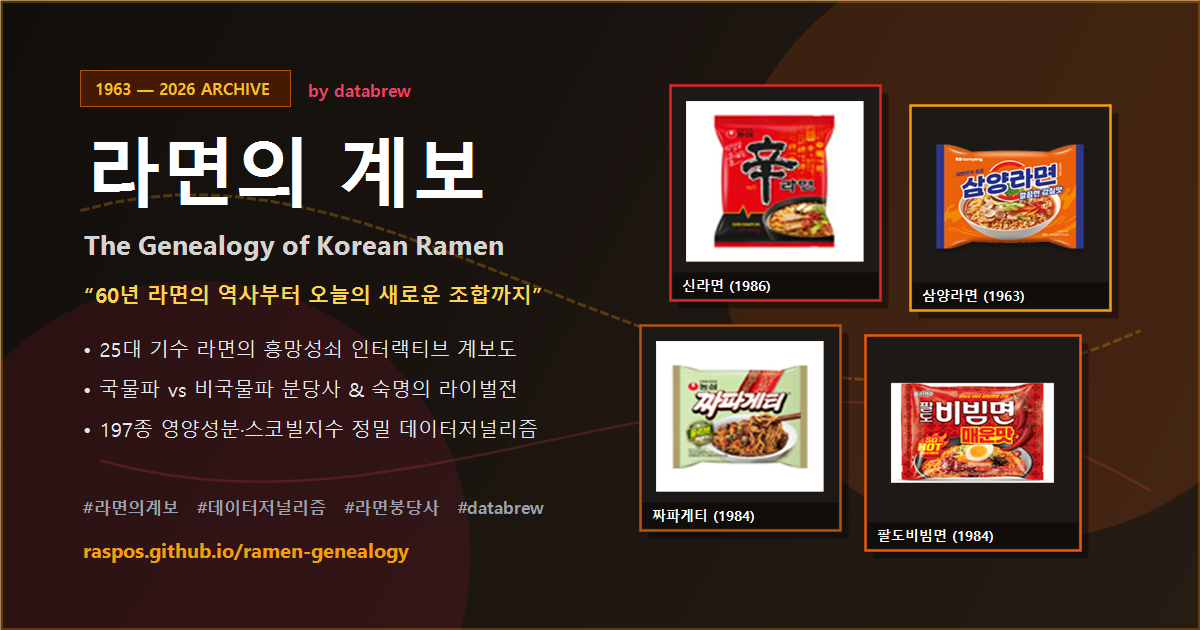
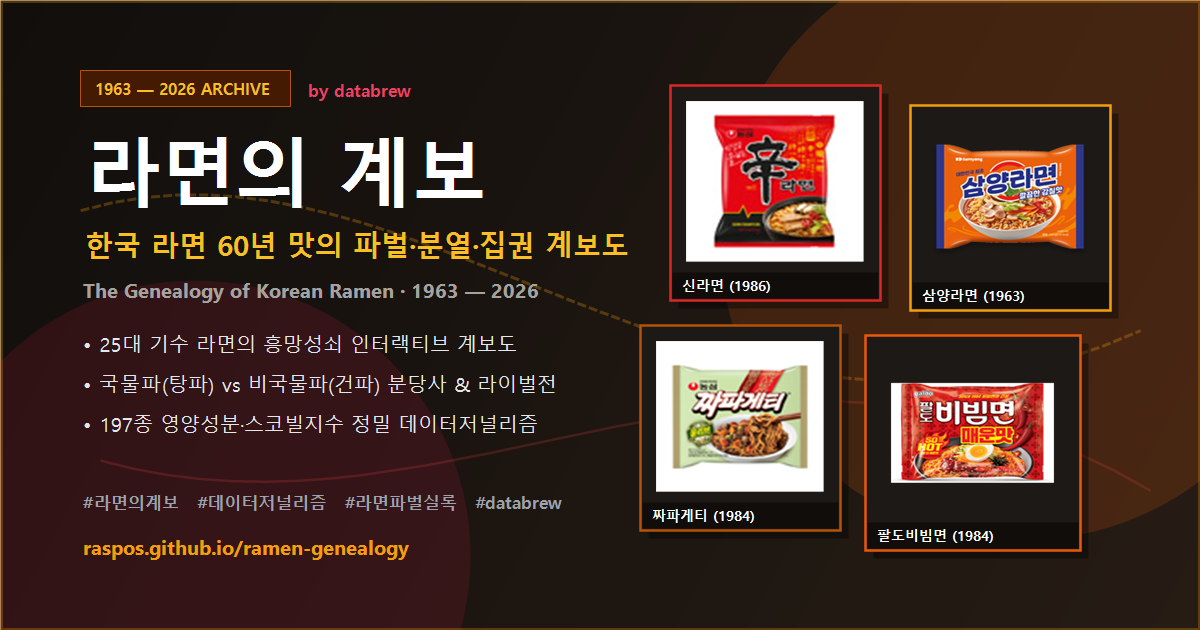
feat: 링크 썸네일 및 타이틀 문구를 '한국 라면 60년 맛의 파벌·분열·집권 계보도'로 전면 교체

diff --git a/index.html b/index.html
@@ -3,8 +3,8 @@
   <head>
     <meta charset="UTF-8" />
     <meta name="viewport" content="width=device-width, initial-scale=1.0" />
-    <title>라면의 계보 | 한국 라면 60년 데이터저널리즘 & 인터랙티브 아카이브</title>
-    <meta name="description" content="“60년 라면의 역사부터 오늘의 새로운 조합까지” 1963~2026 한국 라면 25대 기수 인터랙티브 계보도, 국물파 vs 비국물파 분당사, 숙명의 라이벌전, 197종 정밀 데이터베이스" />
+    <title>라면의 계보 | 한국 라면 60년 맛의 파벌·분열·집권 계보도</title>
+    <meta name="description" content="한국 라면 60년 맛의 파벌·분열·집권 계보도. 1963~2026 한국 라면 25대 기수 인터랙티브 계보도, 국물파 vs 비국물파 분당사, 숙명의 라이벌전 & 197종 정밀 데이터저널리즘" />
     <meta name="keywords" content="라면의 계보, 라면, 신라면, 삼양라면, 진라면, 불닭볶음면, 짜파게티, 팔도비빔면, 라면 역사, 라면 계보도, 데이터저널리즘, databrew" />
     <meta name="author" content="databrew" />
 
@@ -12,21 +12,21 @@
     <meta property="og:type" content="website" />
     <meta property="og:url" content="https://raspos.github.io/ramen-genealogy/" />
     <meta property="og:site_name" content="라면의 계보 (The Genealogy of Korean Ramen)" />
-    <meta property="og:title" content="라면의 계보 — 한국 라면 60년 인터랙티브 아카이브" />
-    <meta property="og:description" content="“60년 라면의 역사부터 오늘의 새로운 조합까지” 25대 기수 계보도, 국물파 vs 비국물파 분당사, 숙명의 라이벌전 & 197종 데이터저널리즘" />
+    <meta property="og:title" content="라면의 계보 — 한국 라면 60년 맛의 파벌·분열·집권 계보도" />
+    <meta property="og:description" content="한국 라면 60년 맛의 파벌·분열·집권 계보도. 25대 기수 계보도, 국물파 vs 비국물파 분당사, 숙명의 라이벌전 & 197종 데이터저널리즘" />
     <meta property="og:image" content="https://raspos.github.io/ramen-genealogy/og-image.png" />
     <meta property="og:image:secure_url" content="https://raspos.github.io/ramen-genealogy/og-image.png" />
     <meta property="og:image:type" content="image/png" />
     <meta property="og:image:width" content="1200" />
     <meta property="og:image:height" content="630" />
-    <meta property="og:image:alt" content="라면의 계보 인터랙티브 데이터저널리즘 썸네일" />
+    <meta property="og:image:alt" content="한국 라면 60년 맛의 파벌·분열·집권 계보도" />
     <meta property="og:locale" content="ko_KR" />
 
     <!-- Twitter / X Card -->
     <meta name="twitter:card" content="summary_large_image" />
     <meta name="twitter:url" content="https://raspos.github.io/ramen-genealogy/" />
-    <meta name="twitter:title" content="라면의 계보 — 한국 라면 60년 인터랙티브 아카이브" />
-    <meta name="twitter:description" content="“60년 라면의 역사부터 오늘의 새로운 조합까지” 25대 기수 계보도, 국물파 vs 비국물파 분당사, 숙명의 라이벌전 & 197종 데이터저널리즘" />
+    <meta name="twitter:title" content="라면의 계보 — 한국 라면 60년 맛의 파벌·분열·집권 계보도" />
+    <meta name="twitter:description" content="한국 라면 60년 맛의 파벌·분열·집권 계보도. 25대 기수 계보도, 국물파 vs 비국물파 분당사, 숙명의 라이벌전 & 197종 데이터저널리즘" />
     <meta name="twitter:image" content="https://raspos.github.io/ramen-genealogy/og-image.png" />
 
     <!-- Favicon & Mobile Icons -->
